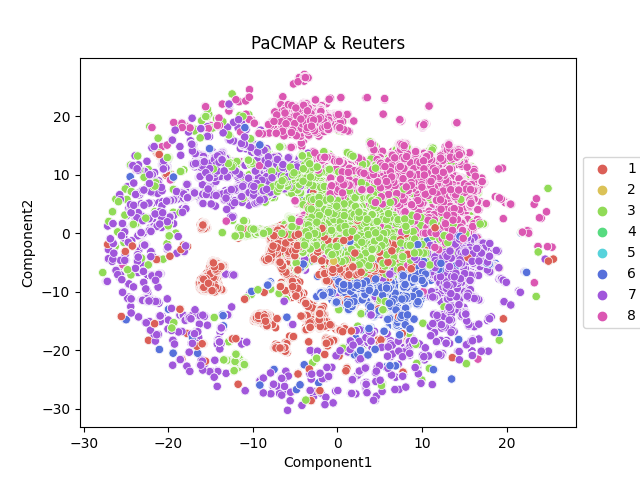
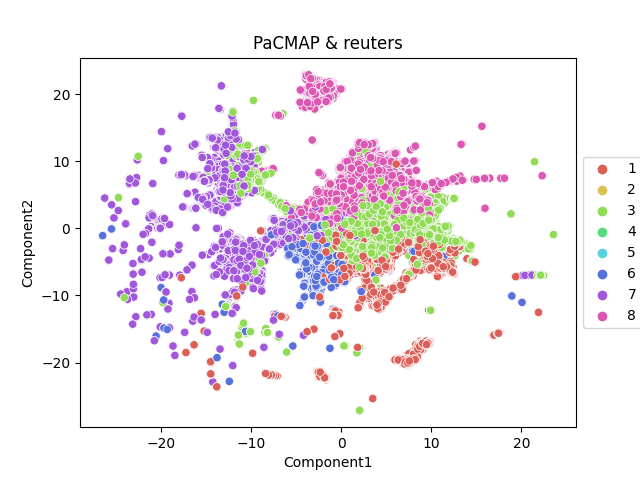
Add reuters plots

diff --git a/project/data_loader/data_loader.py b/project/data_loader/data_loader.py
@@ -12,9 +12,17 @@ def __load_dataset(path: str, target_idx=-1, drop=None) -> Tuple[DataFrame, Data
     dataset = pd.read_csv(path, header=None)
     if drop is not None:
         dataset = dataset[dataset.iloc[:, target_idx] <= drop]
+
+    dataset = get_part_of_dataset(dataset)
     x = dataset.drop(columns=dataset.columns[target_idx])
     y = dataset.iloc[:, target_idx]
     return x, y
+
+
+def get_part_of_dataset(dataset, percent=10):
+    dataset = dataset.sample(frac=1).reset_index(drop=True)
+    dataset = dataset.head(int(len(dataset) * (percent / 100)))
+    return dataset
 
 
 def load_fmnist() -> Tuple[DataFrame, DataFrame]:

diff --git a/project/executor.py b/project/executor.py
@@ -37,5 +37,5 @@ def run_algorithms(dataset_loader: Callable, dataset_name: str):
 if __name__ == '__main__':
     set_up_logger()
     # run_algorithms(load_fmnist, "fmnist")
-    # run_algorithms(load_reuters, "reuters")
-    run_algorithms(load_smallnorb, "smallnorb")
+    run_algorithms(load_reuters, "reuters")
+    # run_algorithms(load_smallnorb, "smallnorb")
